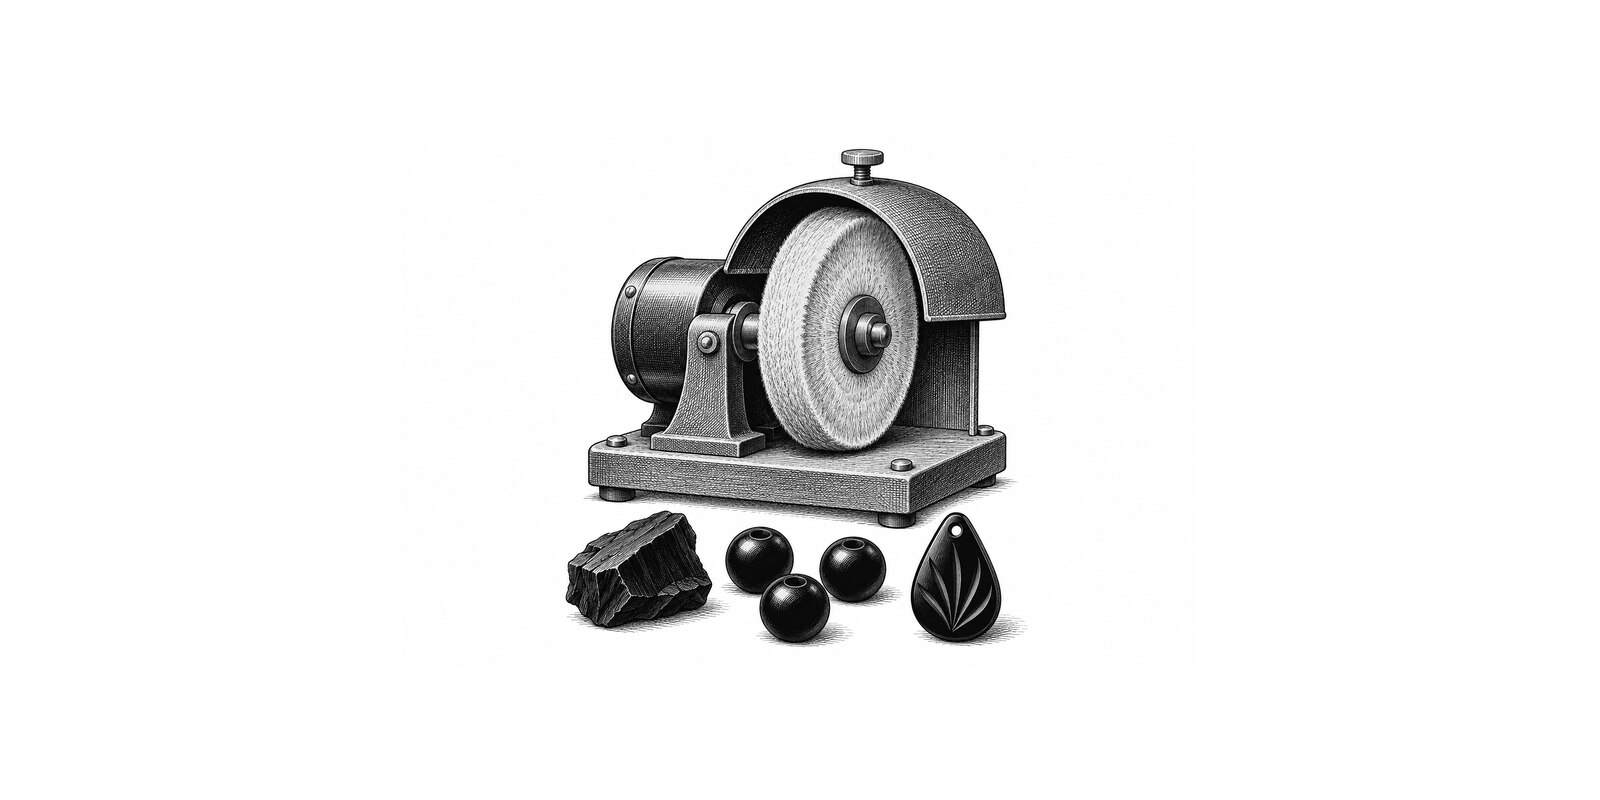
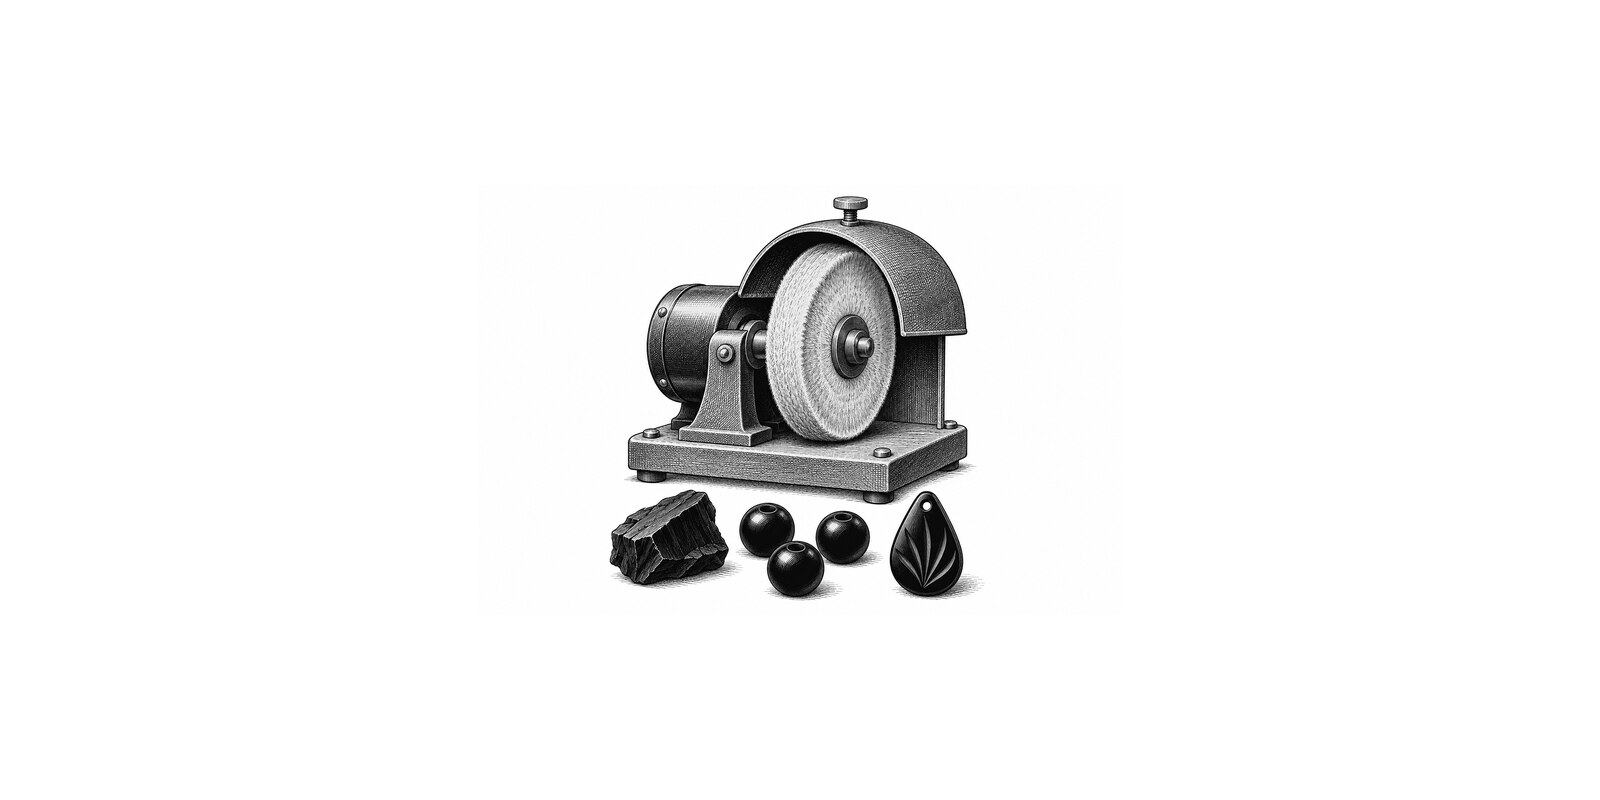
Give OG full artwork crop breathing room

Changed region(s): [[0.3438, 0.1875, 0.6562, 0.8125]]

diff --git a/docs/IMAGE_UPDATE_2026-11-07.md b/docs/IMAGE_UPDATE_2026-11-07.md
@@ -8,11 +8,11 @@ Use case: illustration-story. Original black-and-white museum engraving of a Whi
 
 ## Exports and review
 
-- `assets/exhibits/responsive-v2/whitby-jet-working-master-2x1.jpg`: 1600×800, grayscale JPEG quality 87; source contained within 1180×530 on white.
+- `assets/exhibits/responsive-v2/whitby-jet-working-master-2x1.jpg`: 1600×800, grayscale JPEG quality 87; source contained within 1180×430 on white.
 - `assets/exhibits/responsive-v2/whitby-jet-working-standard-4x3.jpg`: 1067×800, source contained within 977×680, grayscale JPEG quality 87 on white.
 - `assets/exhibits/whitby-jet-working.jpg` mirrors the standard export.
 
-The whole polishing wheel, rough jet, three beads and pendant remain visible. This is a generic contemporary craft still life, not a documented workshop or named machine.
+The whole polishing wheel, rough jet, three beads and pendant remain visible. The first OG full preview placed the wheel knob and pendant against the cover-crop boundary; reducing the wide source height from 530 to 430 pixels restores white breathing room. This is a generic contemporary craft still life, not a documented workshop or named machine.
 
 Merge is gated on repository checks, trmnlp lint and visual review of full, half-horizontal, half-vertical and quadrant on OG, X landscape and X portrait. Exact-head hosted artifacts provide the review record in the PR.
 
